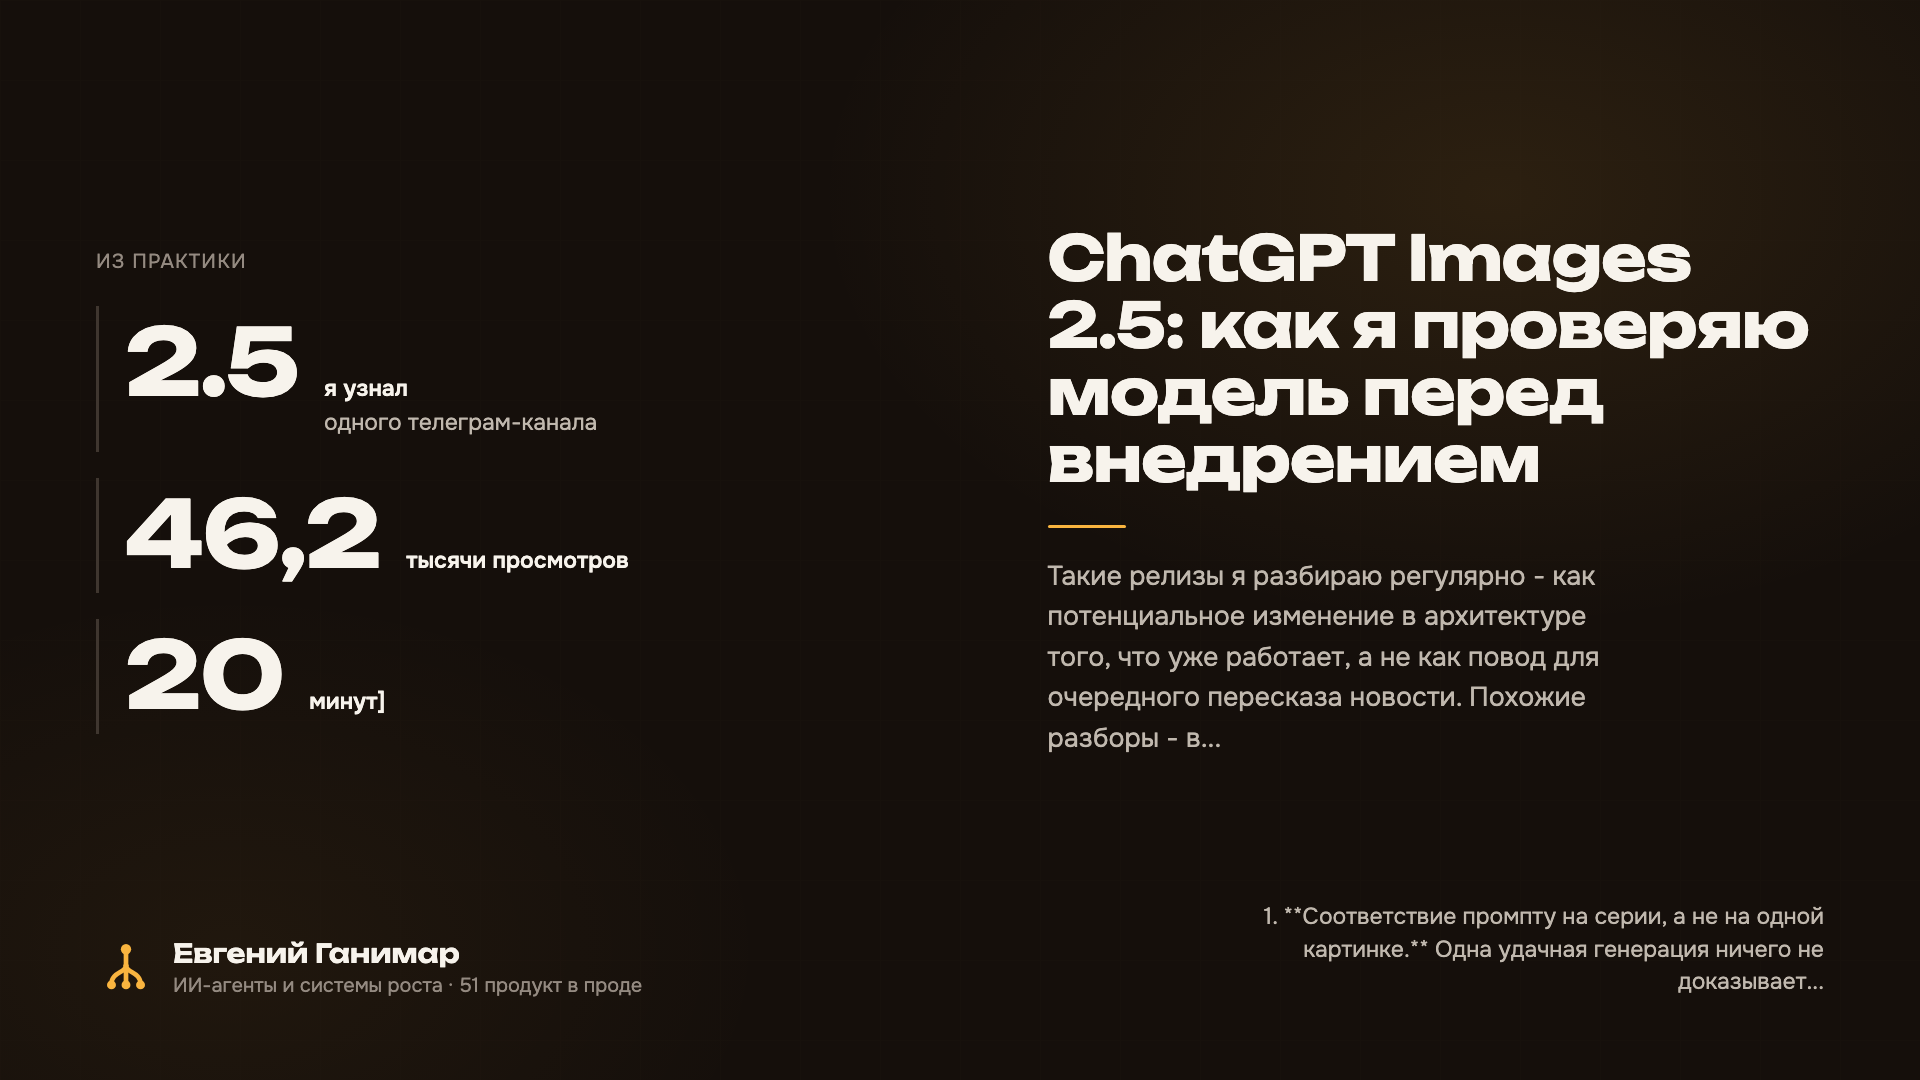
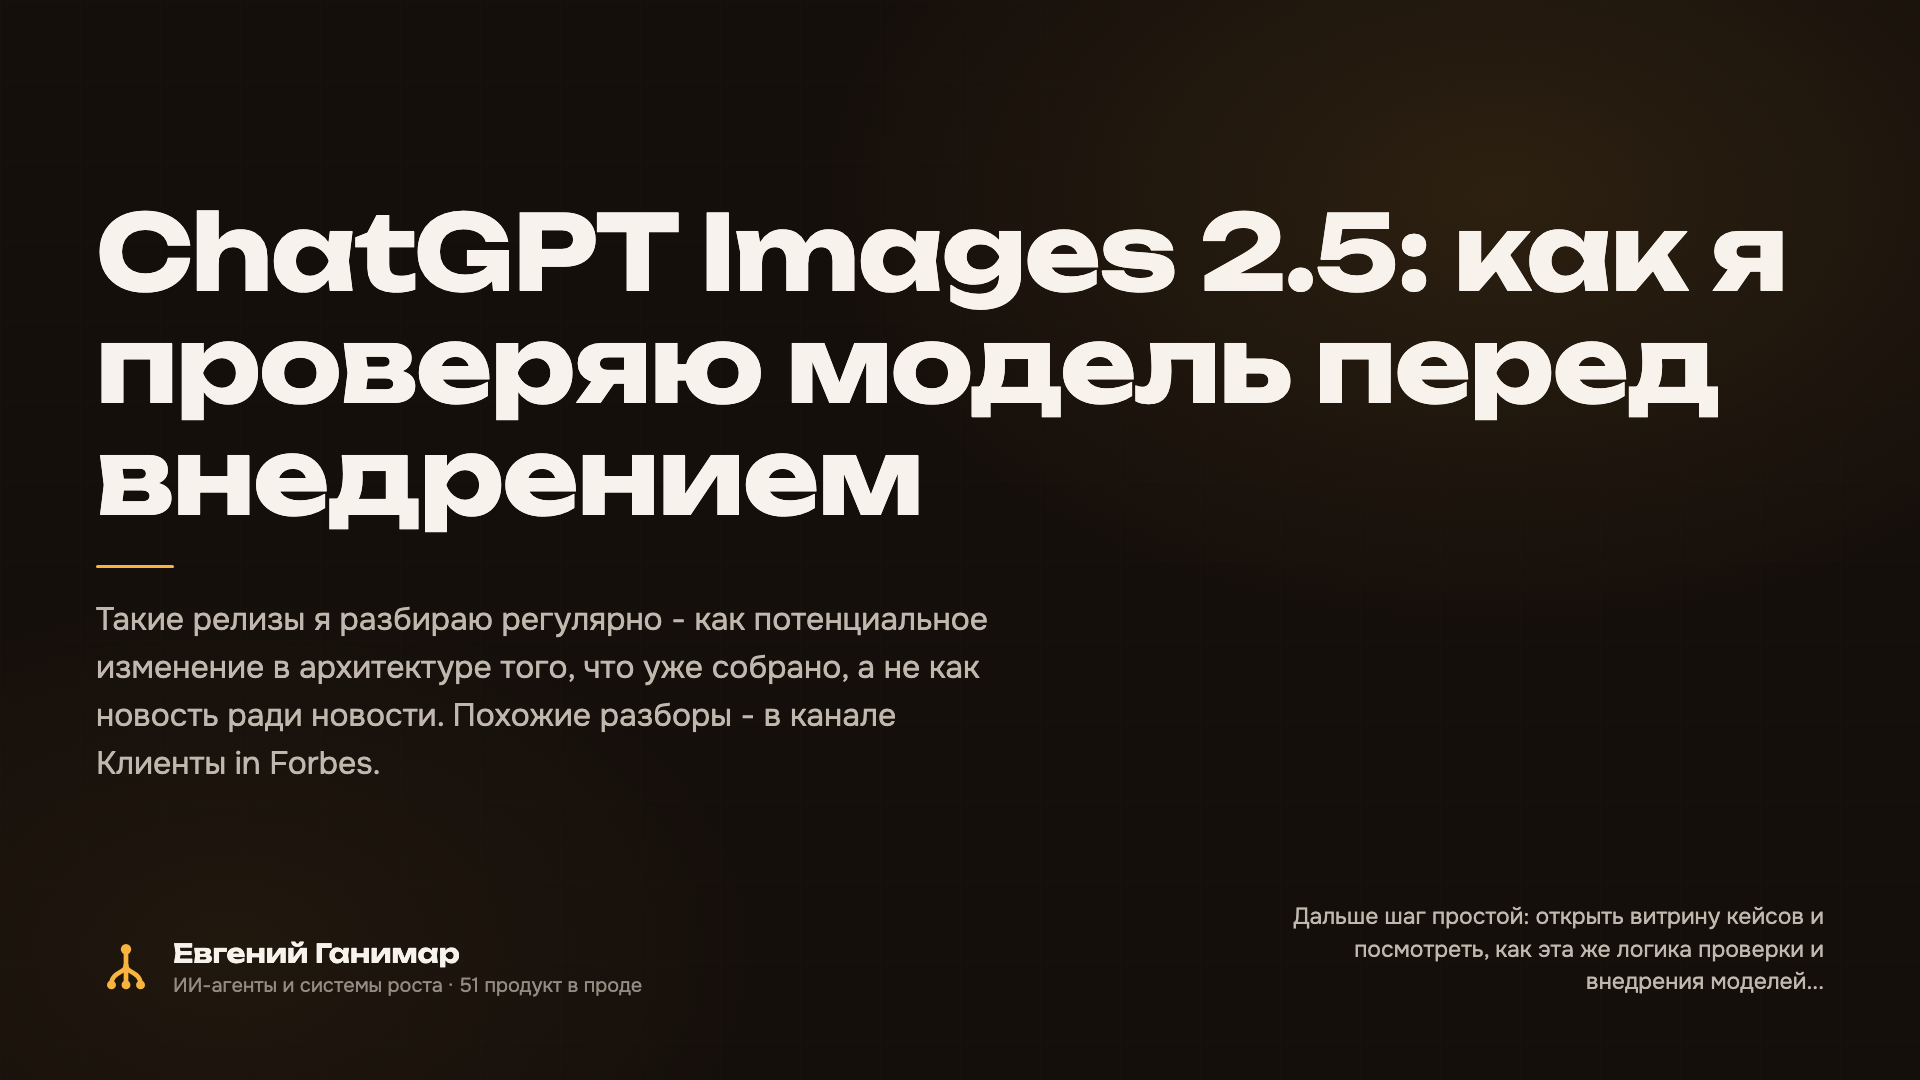
Блог: ChatGPT Images 2.5: как я проверяю модель перед внедрением
Опубликовано контент-заводом.

Changed region(s): [[0.0312, 0.1833, 0.9375, 0.7028], [0.6562, 0.825, 0.9375, 0.9167], [0.0625, 0.7028, 0.1875, 0.7333]]

diff --git a/blog/chatgpt-images-2-5-proverka-na-svoih-proektah.html b/blog/chatgpt-images-2-5-proverka-na-svoih-proektah.html
@@ -36,8 +36,8 @@
     "headline": "ChatGPT Images 2.5: как я проверяю модель перед внедрением",
     "description": "Разбор релиза ChatGPT Images 2.5 на примере живых проектов: где я уже использую генерацию картинок и по каким пунктам проверяю новую модель перед тем, как её включить.",
     "inLanguage": "ru-RU",
-    "datePublished": "2026-09-23",
-    "dateModified": "2026-09-23",
+    "datePublished": "2026-09-24",
+    "dateModified": "2026-09-24",
     "mainEntityOfPage": {
       "@type": "WebPage",
       "@id": "https://ganimar.ru/blog/chatgpt-images-2-5-proverka-na-svoih-proektah"
@@ -99,7 +99,7 @@
     <div class="blog-hero">
       <div class="post-meta">
         <span class="tag">Системный маркетинг</span>
-        <time datetime="2026-09-23">23 сентября 2026</time>
+        <time datetime="2026-09-24">24 сентября 2026</time>
         <span>7 мин чтения</span>
       </div>
       <h1>ChatGPT Images 2.5: как я проверяю модель перед внедрением</h1>
